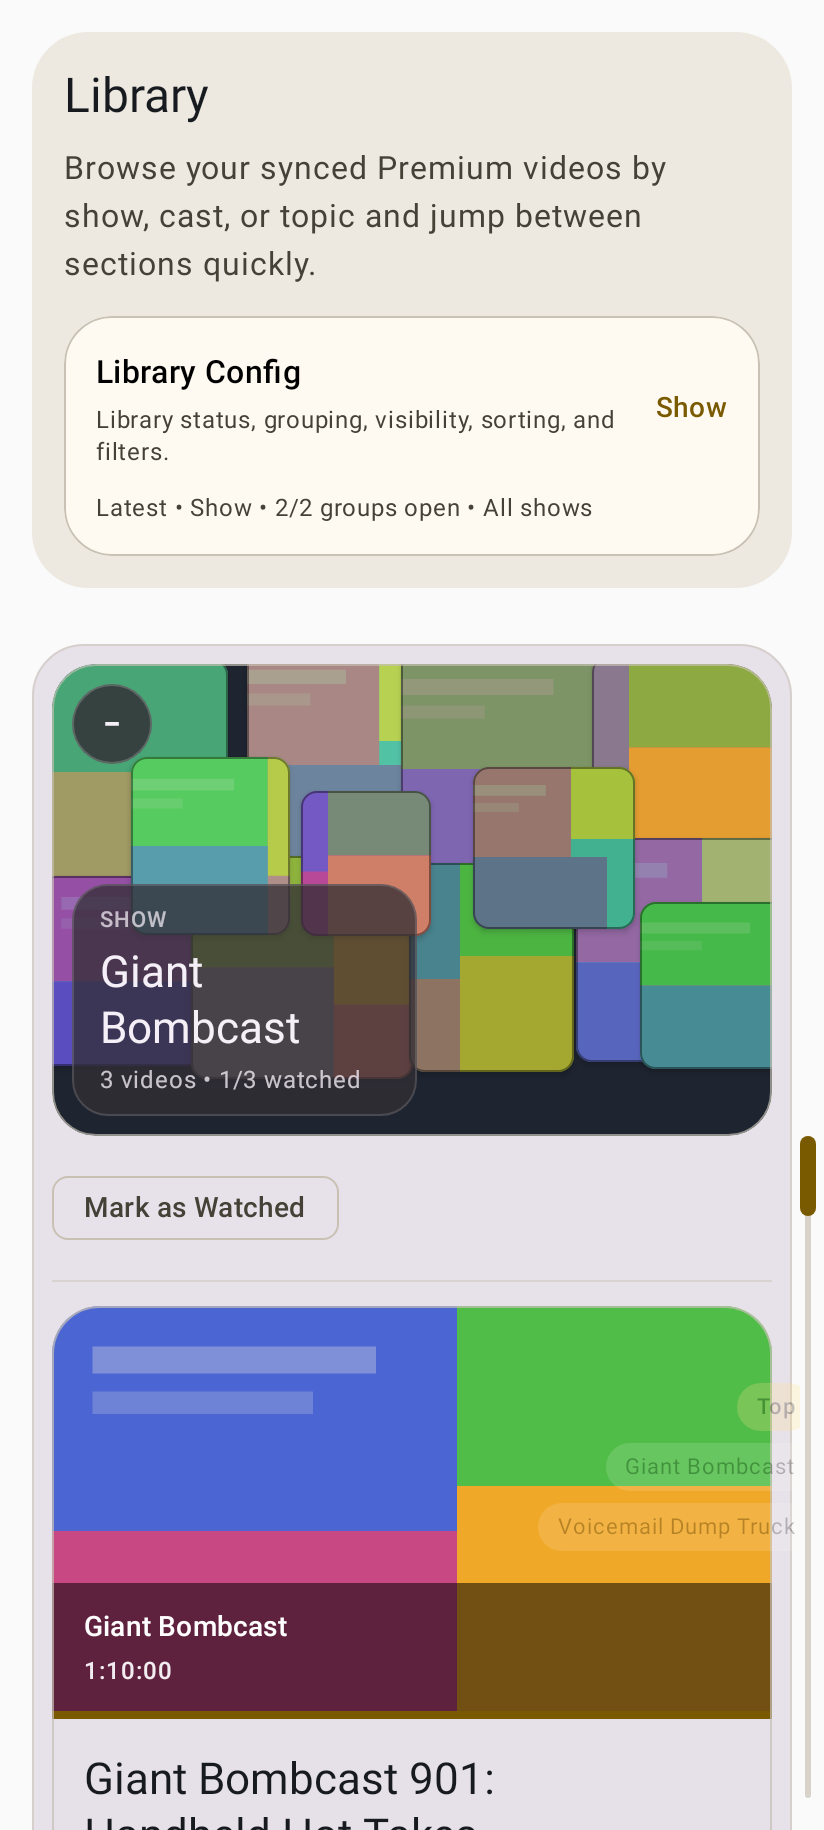
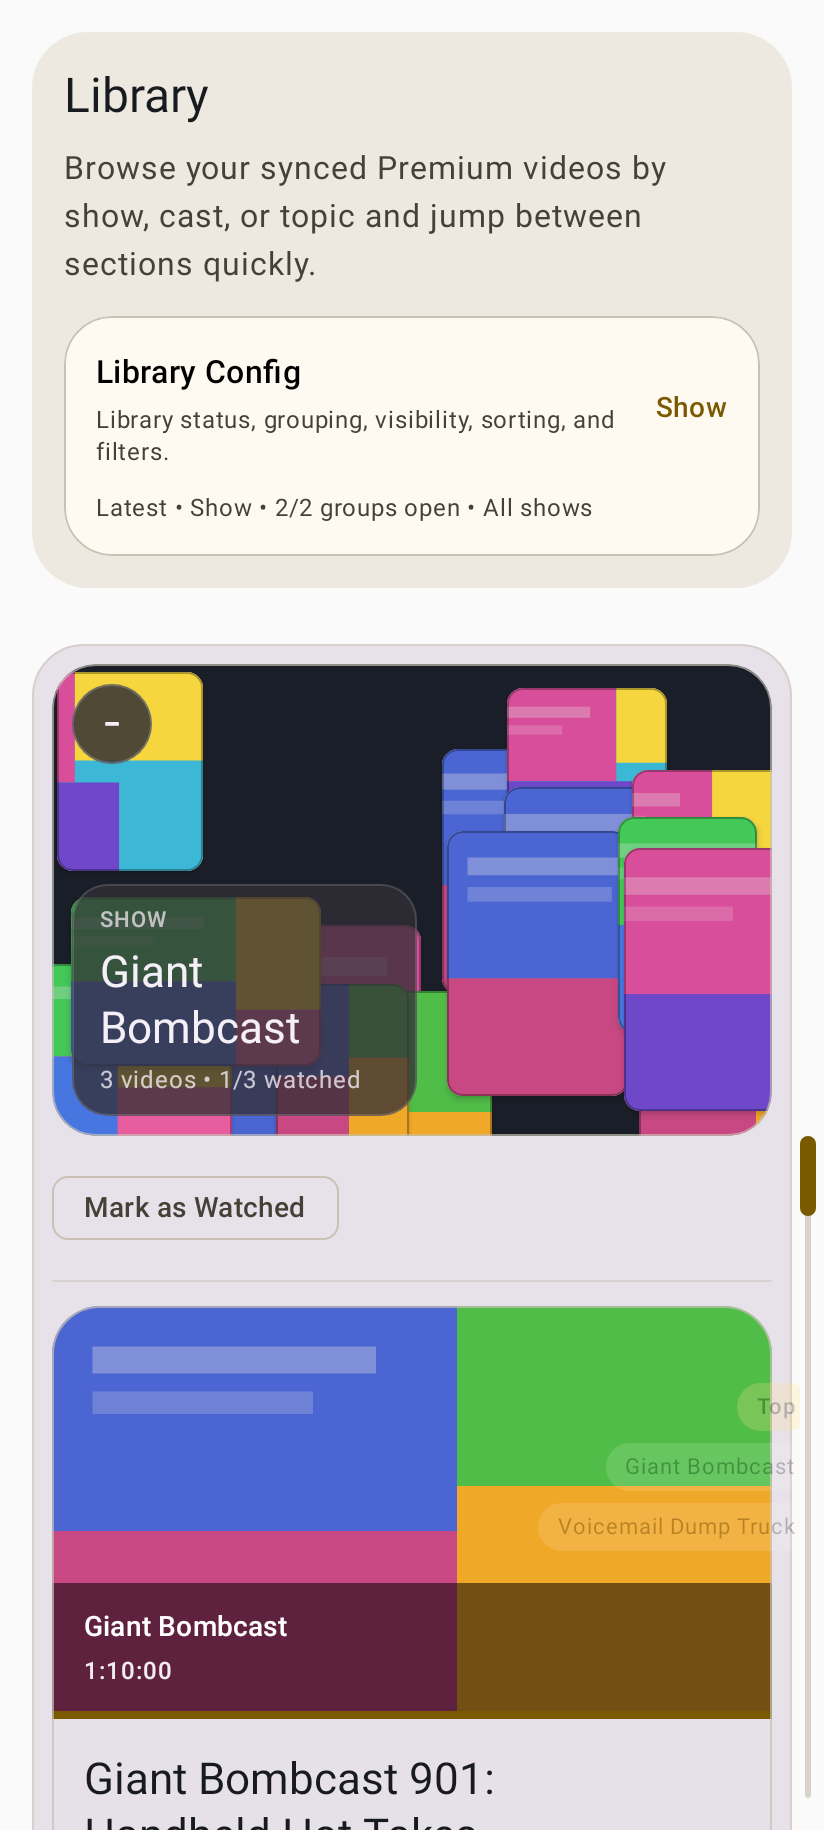
Dynamic untinted mosaic with varied sizes, random placement, and all-video sampling
Replaced static 12-tile spec grid with dynamic generateMosaicTiles()
that produces 14 fully random tiles per section: random position,
random width (0.18-0.40), random height (0.26-0.62), random video
index from all videos in the group, and random crop alignment.
Removed palette color tinting so tiles show pure thumbnail art.
Collapsed state uses 0.6 alpha for dimming.

Changed region(s): [[0.0607, 0.3426, 0.9405, 0.623]]

diff --git a/feature/library/src/main/java/com/looktube/feature/library/LibraryRoute.kt b/feature/library/src/main/java/com/looktube/feature/library/LibraryRoute.kt
@@ -468,8 +468,7 @@ private fun ExpandedSeriesSectionBackdrop(
 ) {
     SeriesSectionBackdropMosaic(
         section = section,
-        tileArtAlpha = 0.55f,
-        tileColorAlpha = 1f,
+        tileArtAlpha = 1f,
         tileShadowElevation = 2.dp,
     )
 }
@@ -480,8 +479,7 @@ private fun CollapsedSeriesSectionBackdrop(
 ) {
     SeriesSectionBackdropMosaic(
         section = section,
-        tileArtAlpha = 0.32f,
-        tileColorAlpha = 0.72f,
+        tileArtAlpha = 0.6f,
         tileShadowElevation = 0.dp,
     )
 }
@@ -490,7 +488,6 @@ private fun CollapsedSeriesSectionBackdrop(
 private fun SeriesSectionBackdropMosaic(
     section: SeriesSection,
     tileArtAlpha: Float,
-    tileColorAlpha: Float,
     tileShadowElevation: Dp,
 ) {
     if (section.videos.isEmpty()) {
@@ -504,27 +501,25 @@ private fun SeriesSectionBackdropMosaic(
     BoxWithConstraints(
         modifier = Modifier
             .fillMaxSize()
-            .background(Color(0xFF1E2430)),
+            .background(Color(0xFF1A1E28)),
     ) {
-        val tileSpecs = remember(section.key) { groupHeaderBackdropTileSpecs(section.key) }
+        val tileSpecs = remember(section.key, section.videos.size) {
+            generateMosaicTiles(section.key, section.videos.size)
+        }
         tileSpecs.forEachIndexed { index, tile ->
-            val video = section.videos[index % section.videos.size]
-            SectionHeaderBackdropPanel(
+            val video = section.videos[tile.videoIndex.coerceIn(section.videos.indices)]
+            SectionHeaderBackdropTile(
                 video = video,
-                sectionKey = section.key,
-                colorIndex = index,
                 artAlpha = tileArtAlpha,
-                tileColorAlpha = tileColorAlpha,
-                rotationDegrees = tile.rotationDegrees,
                 cropAlignment = BiasAlignment(tile.cropAlignX, tile.cropAlignY),
                 shadowElevation = tileShadowElevation,
                 modifier = Modifier
                     .offset(
-                        x = (maxWidth * tile.xFraction) - (GROUP_HEADER_BACKDROP_TILE_BLEED / 2),
-                        y = (maxHeight * tile.yFraction) - (GROUP_HEADER_BACKDROP_TILE_BLEED / 2),
+                        x = maxWidth * tile.xFraction,
+                        y = maxHeight * tile.yFraction,
                     )
-                    .width((maxWidth * tile.widthFraction) + GROUP_HEADER_BACKDROP_TILE_BLEED)
-                    .height((maxHeight * tile.heightFraction) + GROUP_HEADER_BACKDROP_TILE_BLEED),
+                    .width(maxWidth * tile.widthFraction)
+                    .height(maxHeight * tile.heightFraction),
             )
         }
     }
@@ -532,31 +527,22 @@ private fun SeriesSectionBackdropMosaic(
 
 
 @Composable
-private fun SectionHeaderBackdropPanel(
+private fun SectionHeaderBackdropTile(
     video: VideoSummary,
-    sectionKey: String,
-    colorIndex: Int,
     artAlpha: Float,
-    tileColorAlpha: Float,
-    rotationDegrees: Float,
     cropAlignment: Alignment,
     shadowElevation: Dp,
     modifier: Modifier = Modifier,
 ) {
     val thumbnailUrl = video.thumbnailUrl
     Surface(
-        modifier = modifier.graphicsLayer { rotationZ = rotationDegrees },
+        modifier = modifier,
         shape = RoundedCornerShape(8.dp),
-        color = Color.Transparent,
+        color = MaterialTheme.colorScheme.surfaceVariant,
         tonalElevation = 0.dp,
         shadowElevation = shadowElevation,
-        border = BorderStroke(1.dp, Color.Black.copy(alpha = 0.4f)),
+        border = BorderStroke(1.dp, Color.Black.copy(alpha = 0.3f)),
     ) {
-        Box(
-            modifier = Modifier
-                .fillMaxSize()
-                .background(groupHeaderBackdropColor(sectionKey, video.id, colorIndex).copy(alpha = tileColorAlpha)),
-        )
         if (!thumbnailUrl.isNullOrBlank()) {
             ThumbnailImage(
                 thumbnailUrl = thumbnailUrl,
@@ -1096,9 +1082,9 @@ internal data class GroupHeaderBackdropTileSpec(
     val yFraction: Float,
     val widthFraction: Float,
     val heightFraction: Float,
-    val rotationDegrees: Float = 0f,
-    val cropAlignX: Float = 0f,
-    val cropAlignY: Float = 0f,
+    val videoIndex: Int,
+    val cropAlignX: Float,
+    val cropAlignY: Float,
 )
 internal fun collapsedHeaderPeekCount(videoCount: Int): Int = (videoCount - 1).coerceIn(0, GROUP_HEADER_MAX_PEEK_COUNT)
 internal fun collapsedHeaderPeekOffsets(videoCount: Int): List<Dp> =
@@ -1116,62 +1102,22 @@ private val GROUP_HEADER_COMPACT_PREVIEW_CARD_HEIGHT = 72.dp
 private val GROUP_HEADER_COLLAPSED_HEADER_MIN_HEIGHT = 156.dp
 private val GROUP_HEADER_EXPANDED_HEADER_MIN_HEIGHT = 236.dp
 private val GROUP_HEADER_COLLAPSED_PREVIEW_OVERLAP = (-8).dp
-private val GROUP_HEADER_BACKDROP_TILE_BLEED = 2.dp
-private const val GROUP_HEADER_BACKDROP_POSITION_JITTER = 0.015f
-private const val GROUP_HEADER_BACKDROP_WIDTH_JITTER = 0.02f
-private const val GROUP_HEADER_BACKDROP_HEIGHT_JITTER = 0.02f
-private val GROUP_HEADER_BACKDROP_BASE_TILE_SPECS = listOf(
-    // Row 1
-    GroupHeaderBackdropTileSpec(xFraction = -0.02f, yFraction = -0.02f, widthFraction = 0.28f, heightFraction = 0.52f),
-    GroupHeaderBackdropTileSpec(xFraction = 0.26f, yFraction = -0.02f, widthFraction = 0.24f, heightFraction = 0.44f),
-    GroupHeaderBackdropTileSpec(xFraction = 0.50f, yFraction = -0.02f, widthFraction = 0.26f, heightFraction = 0.48f),
-    GroupHeaderBackdropTileSpec(xFraction = 0.76f, yFraction = -0.02f, widthFraction = 0.26f, heightFraction = 0.42f),
-    // Row 2
-    GroupHeaderBackdropTileSpec(xFraction = -0.02f, yFraction = 0.46f, widthFraction = 0.22f, heightFraction = 0.40f),
-    GroupHeaderBackdropTileSpec(xFraction = 0.20f, yFraction = 0.40f, widthFraction = 0.30f, heightFraction = 0.46f),
-    GroupHeaderBackdropTileSpec(xFraction = 0.50f, yFraction = 0.44f, widthFraction = 0.24f, heightFraction = 0.42f),
-    GroupHeaderBackdropTileSpec(xFraction = 0.74f, yFraction = 0.38f, widthFraction = 0.28f, heightFraction = 0.48f),
-    // Fill gaps
-    GroupHeaderBackdropTileSpec(xFraction = 0.10f, yFraction = 0.20f, widthFraction = 0.20f, heightFraction = 0.36f),
-    GroupHeaderBackdropTileSpec(xFraction = 0.36f, yFraction = 0.26f, widthFraction = 0.18f, heightFraction = 0.30f),
-    GroupHeaderBackdropTileSpec(xFraction = 0.60f, yFraction = 0.22f, widthFraction = 0.22f, heightFraction = 0.34f),
-    GroupHeaderBackdropTileSpec(xFraction = 0.82f, yFraction = 0.50f, widthFraction = 0.20f, heightFraction = 0.36f),
-)
-private val GroupHeaderBackdropPalette = listOf(
-    Color(0xFFC25478),
-    Color(0xFF4356B4),
-    Color(0xFF48A83A),
-    Color(0xFFE89C1E),
-    Color(0xFF3E8BB0),
-    Color(0xFFA64DB3),
-    Color(0xFF6ECE6A),
-    Color(0xFFD4903C),
-)
+private const val GROUP_HEADER_MOSAIC_TILE_COUNT = 14
 
-private fun groupHeaderBackdropColor(
-    sectionKey: String,
-    videoId: String,
-    index: Int,
-): Color {
-    val paletteIndex = ("$sectionKey:$videoId:$index".hashCode() and Int.MAX_VALUE) % GroupHeaderBackdropPalette.size
-    return GroupHeaderBackdropPalette[paletteIndex]
-}
-
-internal fun groupHeaderBackdropTileSpecs(sectionKey: String): List<GroupHeaderBackdropTileSpec> {
+internal fun generateMosaicTiles(sectionKey: String, videoCount: Int): List<GroupHeaderBackdropTileSpec> {
+    if (videoCount == 0) return emptyList()
     val random = Random(sectionKey.hashCode())
-    return GROUP_HEADER_BACKDROP_BASE_TILE_SPECS.map { tile ->
+    return List(GROUP_HEADER_MOSAIC_TILE_COUNT) {
+        val w = 0.18f + random.nextFloat() * 0.22f  // 0.18..0.40
+        val h = 0.26f + random.nextFloat() * 0.36f  // 0.26..0.62
         GroupHeaderBackdropTileSpec(
-            xFraction = (tile.xFraction + random.centeredJitter(GROUP_HEADER_BACKDROP_POSITION_JITTER))
-                .coerceIn(-0.14f, 0.82f),
-            yFraction = (tile.yFraction + random.centeredJitter(GROUP_HEADER_BACKDROP_POSITION_JITTER))
-                .coerceIn(-0.12f, 0.7f),
-            widthFraction = (tile.widthFraction + random.centeredJitter(GROUP_HEADER_BACKDROP_WIDTH_JITTER))
-                .coerceIn(0.16f, 0.36f),
-            heightFraction = (tile.heightFraction + random.centeredJitter(GROUP_HEADER_BACKDROP_HEIGHT_JITTER))
-                .coerceIn(0.28f, 0.56f),
-            rotationDegrees = 0f,
-            cropAlignX = (random.nextFloat() * 2f - 1f).coerceIn(-1f, 1f),
-            cropAlignY = (random.nextFloat() * 2f - 1f).coerceIn(-1f, 1f),
+            xFraction = -0.04f + random.nextFloat() * 0.92f,  // -0.04..0.88
+            yFraction = -0.06f + random.nextFloat() * 0.82f,  // -0.06..0.76
+            widthFraction = w,
+            heightFraction = h,
+            videoIndex = random.nextInt(videoCount),
+            cropAlignX = random.nextFloat() * 2f - 1f,
+            cropAlignY = random.nextFloat() * 2f - 1f,
         )
     }
 }

diff --git a/feature/library/src/test/java/com/looktube/feature/library/LibraryGroupedHeaderGeometryTest.kt b/feature/library/src/test/java/com/looktube/feature/library/LibraryGroupedHeaderGeometryTest.kt
@@ -21,20 +21,19 @@ class LibraryGroupedHeaderGeometryTest {
     }
 
     @Test
-    fun backdropTileSpecsAreDeterministicPerSectionKey() {
+    fun mosaicTilesAreDeterministicPerSectionKey() {
         assertEquals(
-            groupHeaderBackdropTileSpecs("show:Giant Bombcast"),
-            groupHeaderBackdropTileSpecs("show:Giant Bombcast"),
+            generateMosaicTiles("show:Giant Bombcast", 5),
+            generateMosaicTiles("show:Giant Bombcast", 5),
         )
     }
 
     @Test
-    fun backdropTileSpecsStayWithinExpectedBounds() {
-        val specs = groupHeaderBackdropTileSpecs("show:Portal Pals")
-        assertEquals(12, specs.size)
-        assertTrue(specs.all { it.xFraction in -0.14f..0.82f })
-        assertTrue(specs.all { it.yFraction in -0.12f..0.7f })
-        assertTrue(specs.all { it.widthFraction in 0.16f..0.36f })
-        assertTrue(specs.all { it.heightFraction in 0.28f..0.56f })
+    fun mosaicTilesStayWithinExpectedBounds() {
+        val specs = generateMosaicTiles("show:Portal Pals", 3)
+        assertEquals(14, specs.size)
+        assertTrue(specs.all { it.widthFraction in 0.1f..0.5f })
+        assertTrue(specs.all { it.heightFraction in 0.2f..0.7f })
+        assertTrue(specs.all { it.videoIndex in 0..2 })
     }
 }
